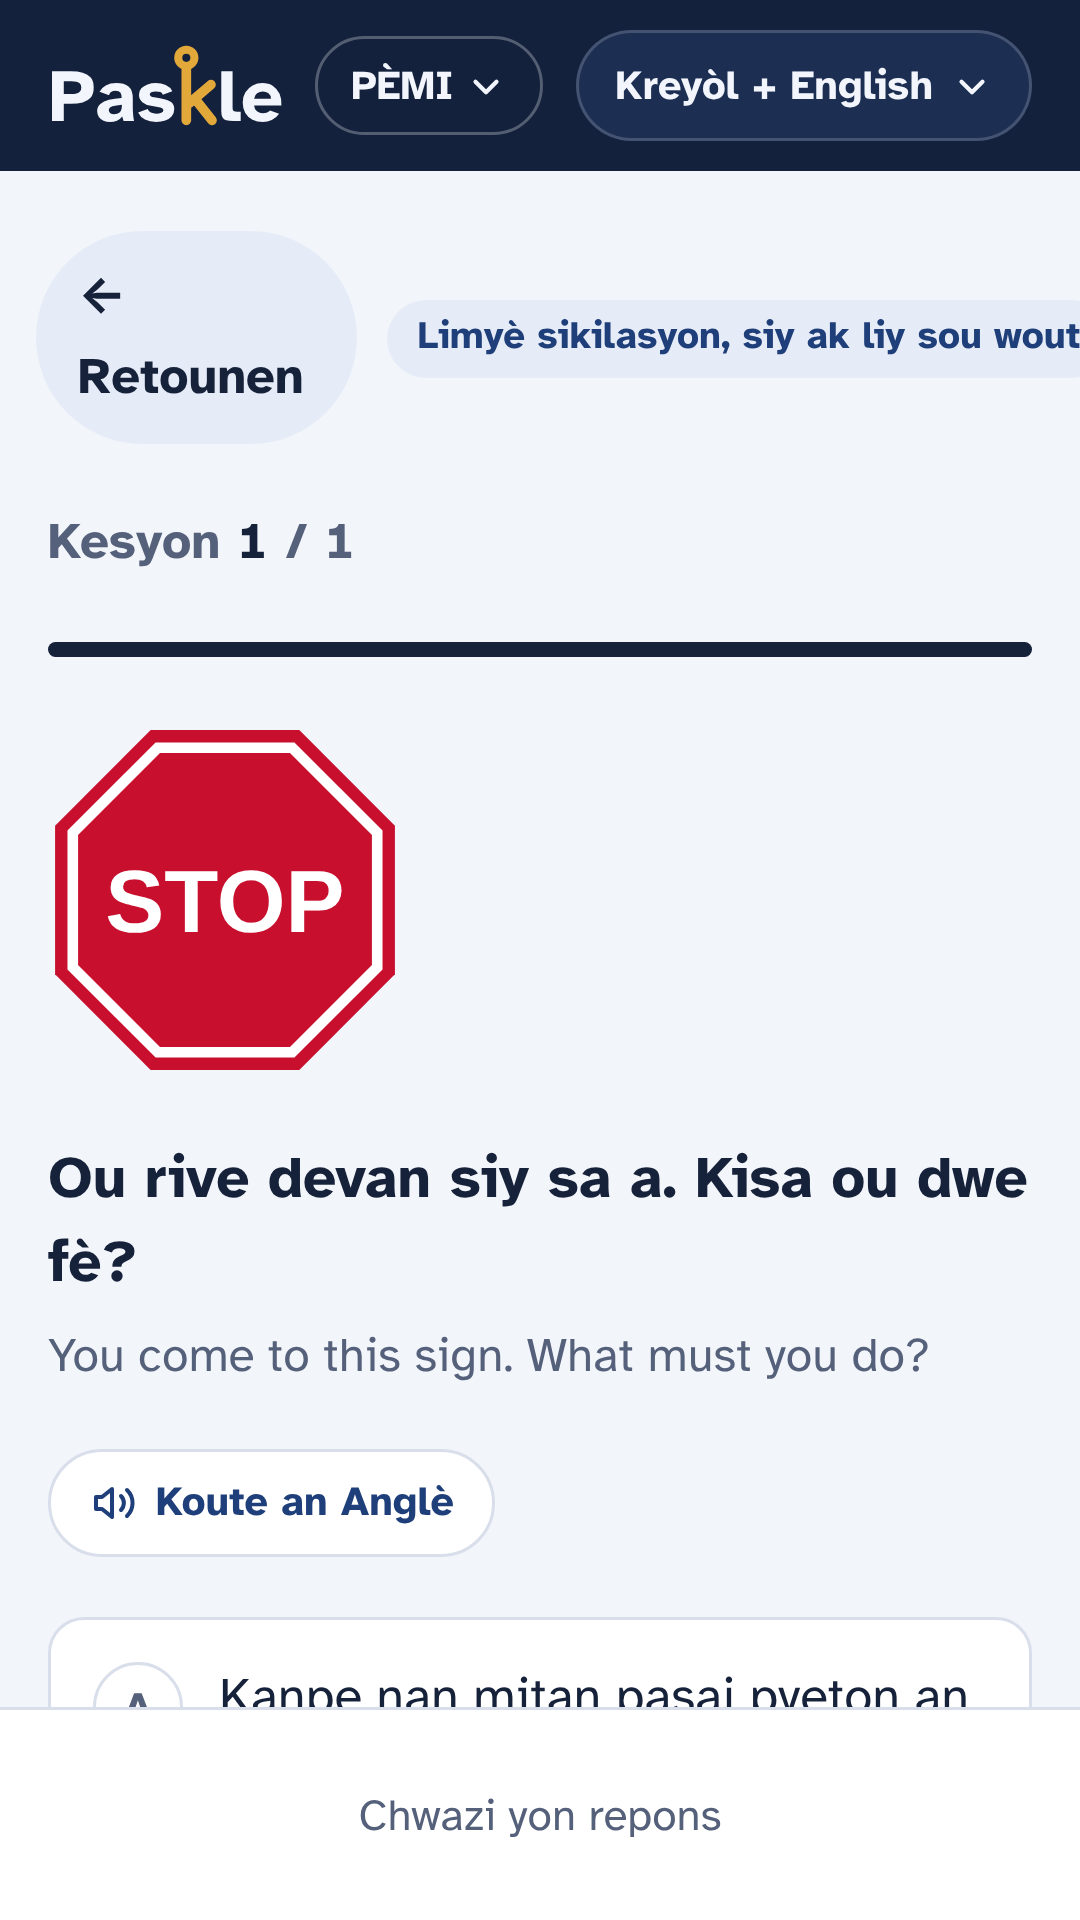
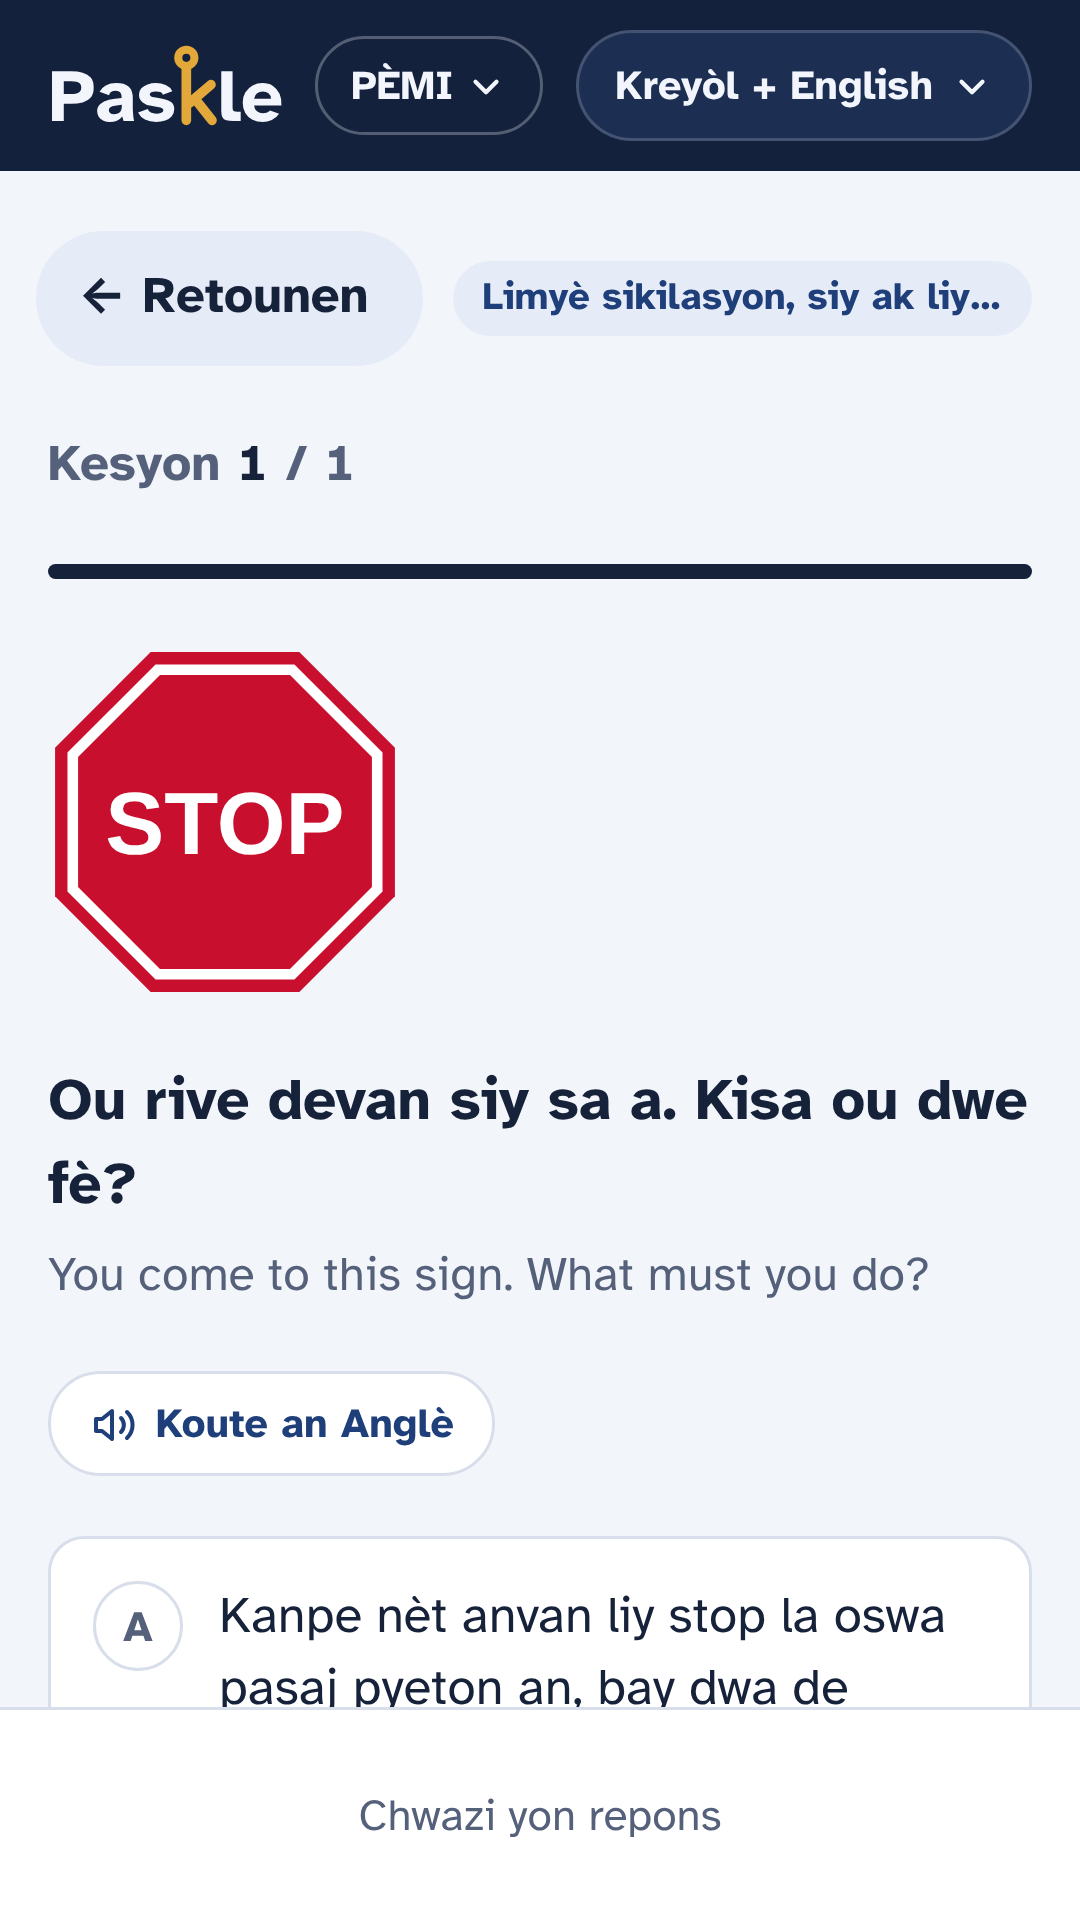
Keep the back button on one line next to long topic names; refresh store screenshots
Claude-Session: https://claude.ai/code/session_012PyFX9j1ZqNjdWZPn75jAa

diff --git a/index.html b/index.html
@@ -163,7 +163,7 @@ a.li{color:inherit;text-decoration:none}
 .topic .cnt.bad{color:var(--bad);font-weight:700}
 .secthead{display:flex;justify-content:space-between;align-items:baseline;gap:10px}
 .secthead .back{font-size:.92rem}
-.back.bk{display:inline-flex;align-items:center;min-height:44px;padding:9px 18px 9px 14px;margin-left:-4px;font-size:1.06rem;border-radius:999px;background:var(--accent-soft);color:var(--fg)}
+.back.bk{display:inline-flex;align-items:center;white-space:nowrap;min-height:44px;padding:9px 18px 9px 14px;margin-left:-4px;font-size:1.06rem;border-radius:999px;background:var(--accent-soft);color:var(--fg)}
 .back.bk:hover{filter:brightness(.97)}
 
 .pill{display:inline-flex;align-items:center;gap:6px;padding:3px 10px;border-radius:99px;font-size:.8rem;font-weight:700;white-space:nowrap}
@@ -189,6 +189,7 @@ a.li{color:inherit;text-decoration:none}
 body.focus nav.tabs{display:none}
 body.focus main{padding-bottom:calc(110px + env(safe-area-inset-bottom,0px))}
 .qtop{display:flex;justify-content:space-between;align-items:center;gap:10px}
+.qtop .back.bk{flex:none}.qtop .pill.topic{min-width:0;overflow:hidden;text-overflow:ellipsis;white-space:nowrap;display:block}
 .qcount{font-weight:700;font-variant-numeric:tabular-nums;color:var(--muted)}
 .qcount b{color:var(--fg)}
 .qhead{display:flex;justify-content:space-between;align-items:center;gap:10px;flex-wrap:wrap}

diff --git a/sw.js b/sw.js
@@ -1,7 +1,7 @@
 /* Paskle service worker: makes practice work offline.
    App files and fonts are saved on install; language files are saved the first time they load.
    Bump VERSION whenever any file changes, so phones pick up the new version. */
-const VERSION = "paskle-2026-10-21j";
+const VERSION = "paskle-2026-10-21k";
 const CORE = [
   "./", "index.html", "manifest.webmanifest",
   "data/hha-a.js", "data/hha-b.js", "data/hha-c.js", "data/hha-d.js", "data/hha-map.js",
